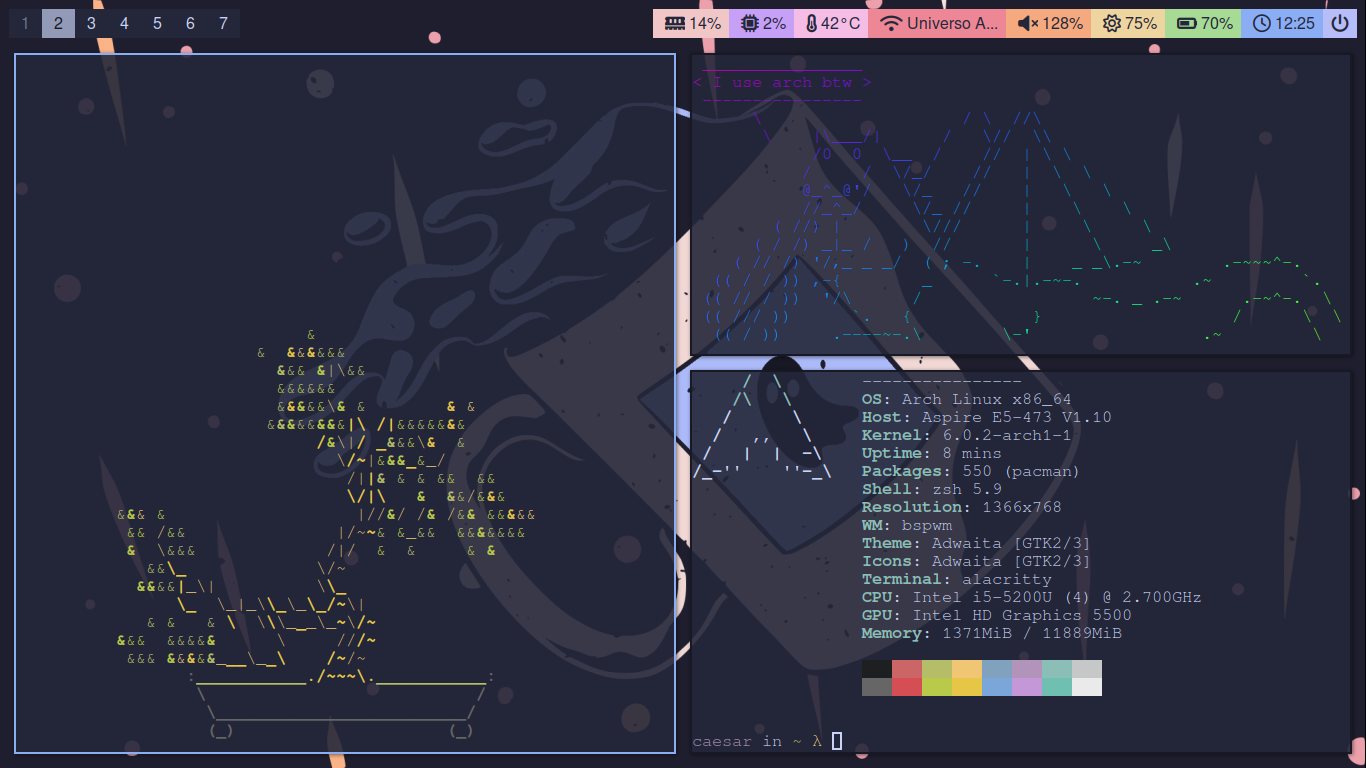
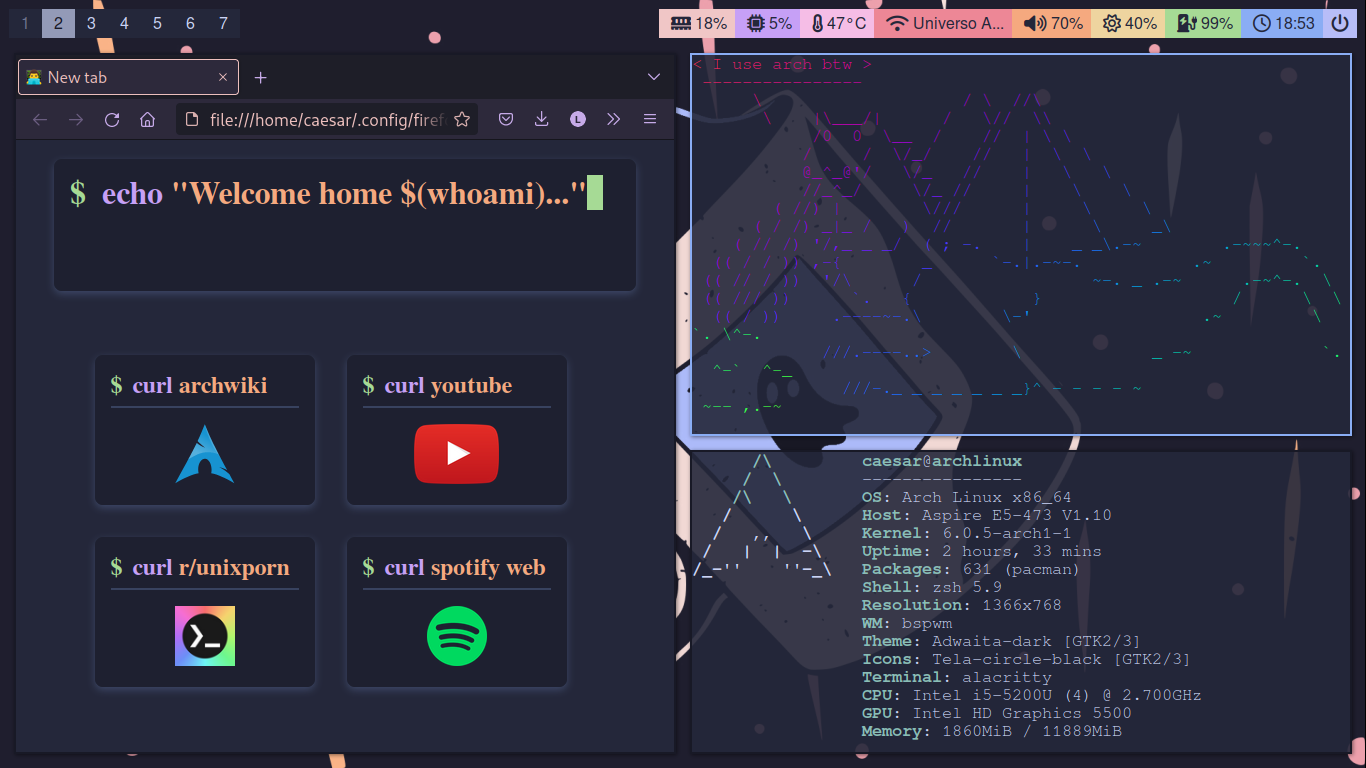
New screenshots; Updated readme

diff --git a/README.md b/README.md
@@ -6,7 +6,7 @@ This repo is meant to be where I store my config files (those usually stored in 
 # Current Setup
 
 ## GNU/Linux
-- Kernel: 6.0.2-arch1-1
+- Kernel: 6.0.5-arch1-1
 - Distro: Arch Linux
 - Display server: Xorg
 - Display manager: LightDM Slick Greeter
@@ -33,13 +33,11 @@ To use this setup, copy only the `gruv1` directories from `.config/bspwm` and `.
 
 ![Setup preview](assets/images/bspwm2-1.png)
 
-### Blocky - a [catppuccin](https://github.com/catppuccin/catppuccin) setup for bspwm
+### Blocky - a [catppuccin](https://github.com/catppuccin/catppuccin) setup for bspwm (currently in use)
 
 To use this setup, copy only the `blocky` directories from `.config/bspwm` and `.config/polybar` to your `~/.config` directory, renaming them to `bspwm` and `polybar`, respectively
 
 ![Setup preview](assets/images/bspwm3-1.png)
-\
-![Setup preview](assets/images/bspwm3-2.png)
 
 ## AwesomeWM (No longer maintained)
 ![Setup preview](assets/images/awesomewm1.png)
